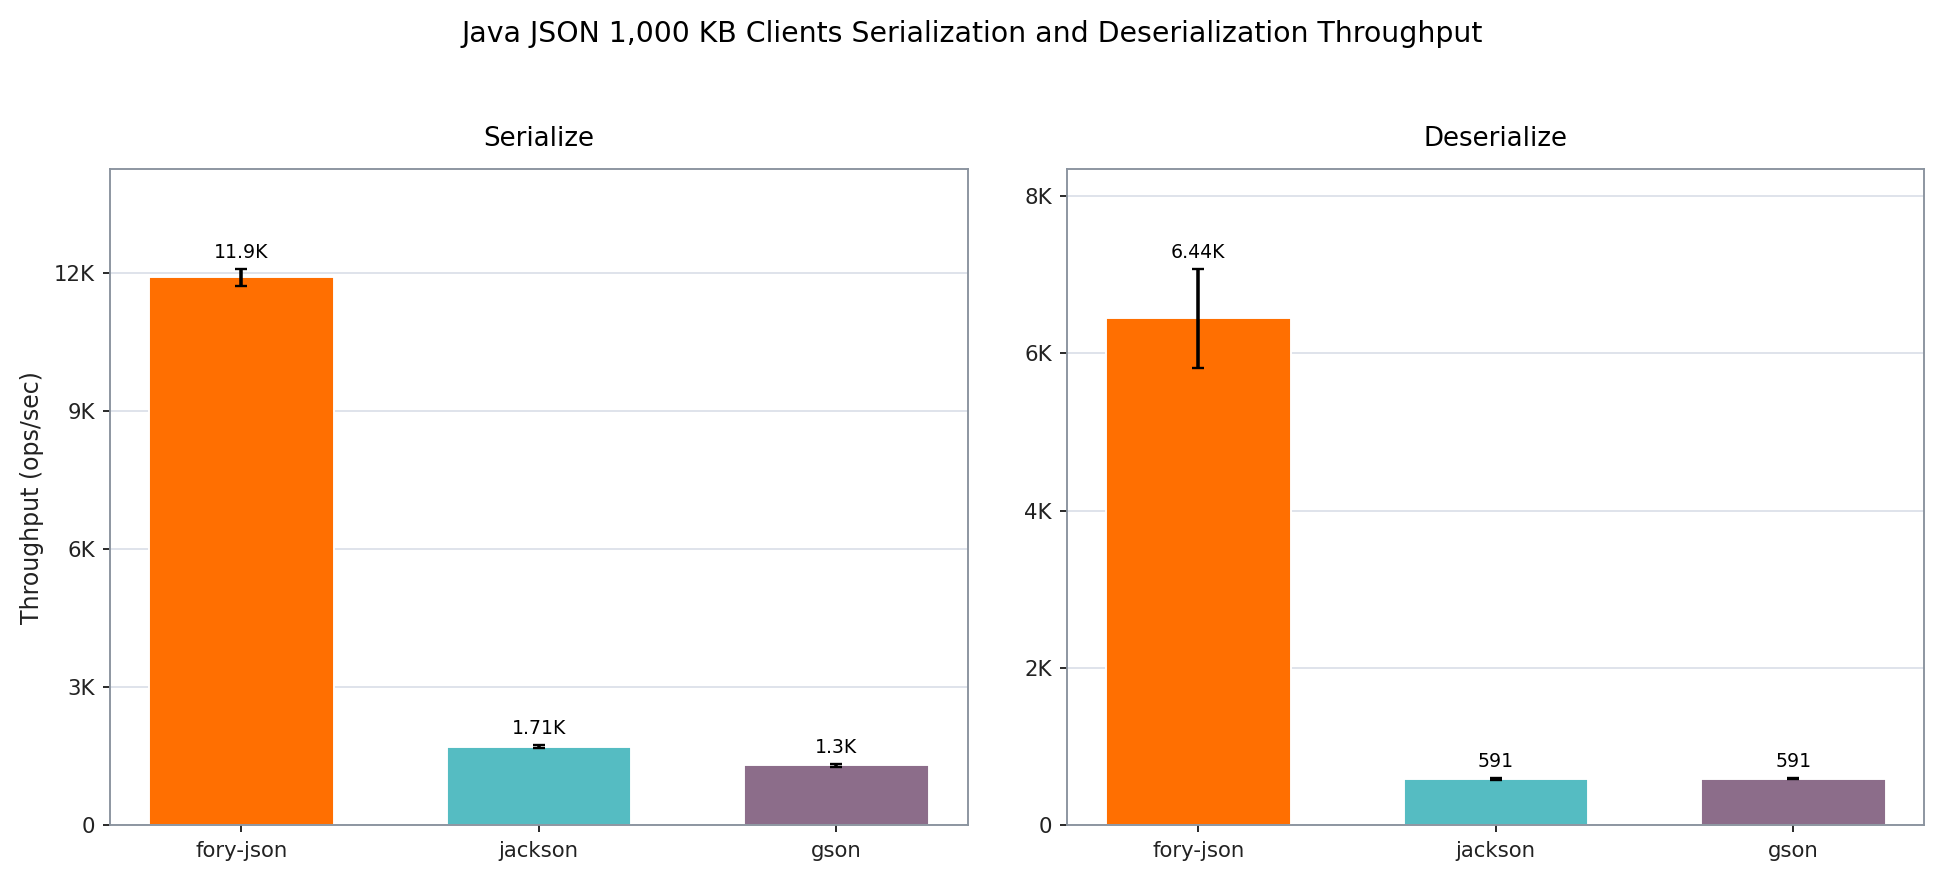
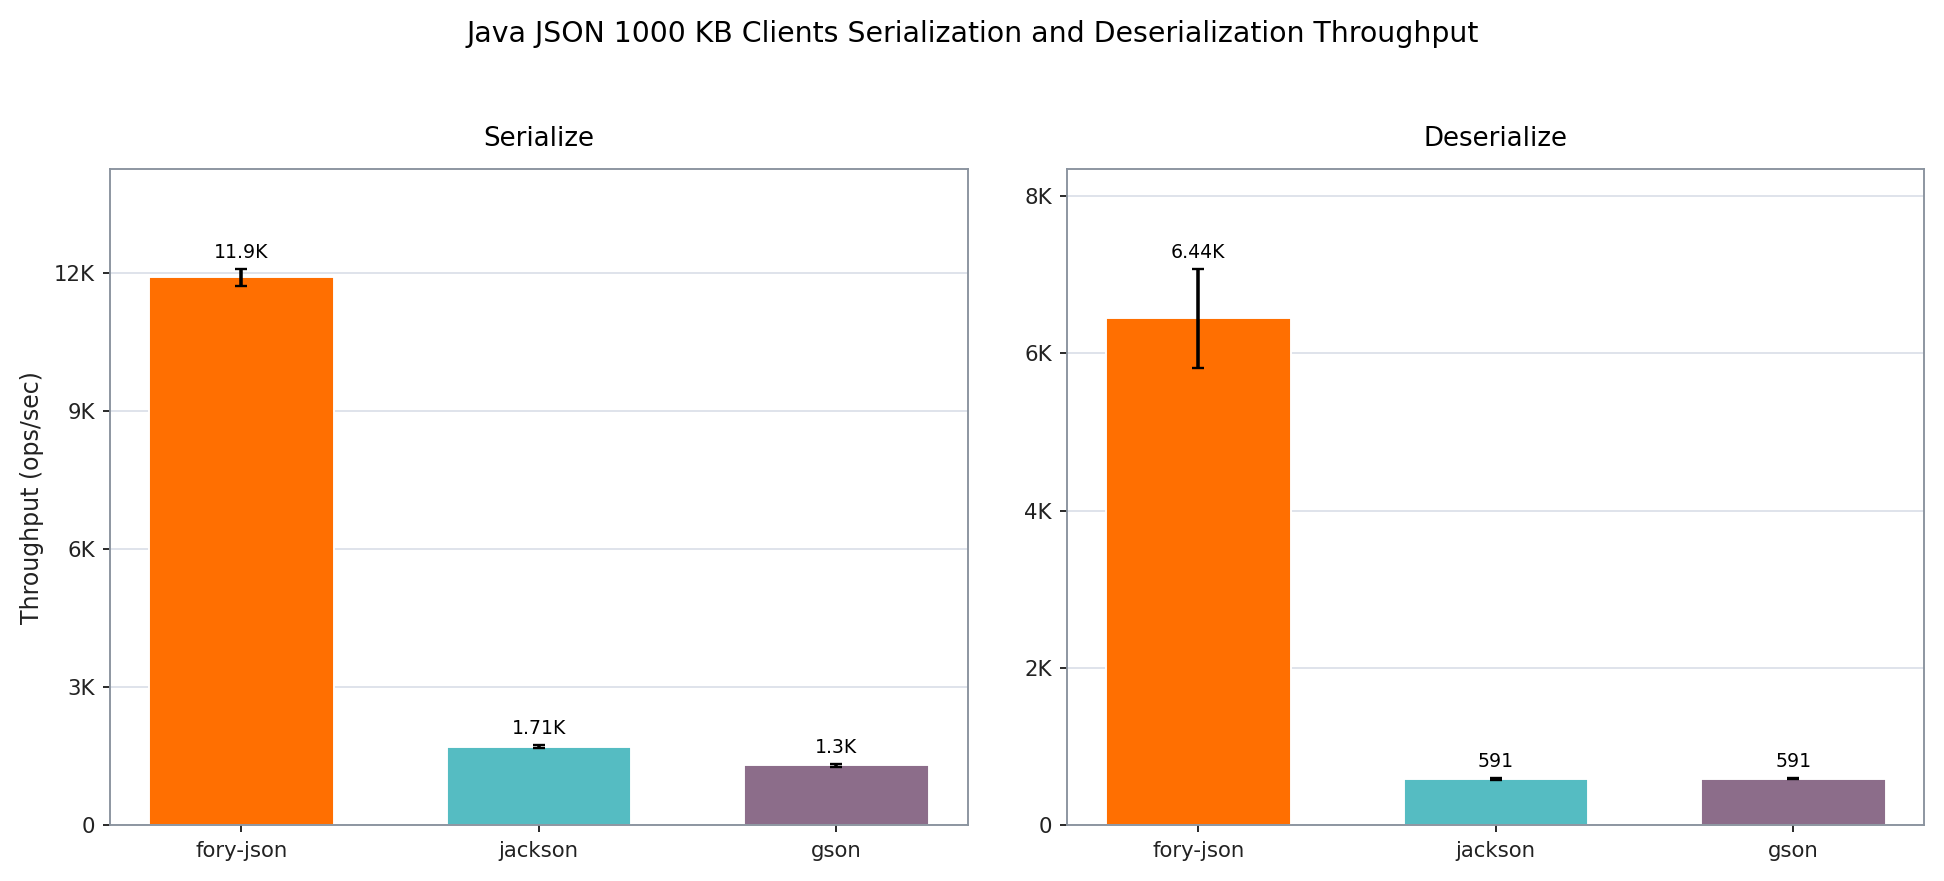
docs(blog): normalize benchmark size label

Changed region(s): [[0.216, 0.0, 0.7716, 0.0613]]

diff --git a/blog/2026-08-11-fory-json/index.md b/blog/2026-08-11-fory-json/index.md
@@ -5,11 +5,11 @@ authors: [chaokunyang]
 tags: [fory, java, json, serialization, performance]
 ---
 
-**TL;DR**: Apache Fory JSON is a high-performance Java framework for mapping application objects to standard JSON text and UTF-8 bytes. It supports ordinary Java models and runs on JDK 8+, Android, and GraalVM Native Image. In the published benchmark configurations below, Fory JSON is the fastest Java JSON serialization framework: up to **10.91× faster than Jackson and 10.89× faster than Gson** with 1,000 KB payloads, and up to **5.55× faster than Jackson and 10.00× faster than Gson** in the `jvm-serializers` MediaContent benchmark.
+**TL;DR**: Apache Fory JSON is a high-performance Java framework for mapping application objects to standard JSON text and UTF-8 bytes. It supports ordinary Java models and runs on JDK 8+, Android, and GraalVM Native Image. In the published benchmark configurations below, Fory JSON is the fastest Java JSON serialization framework: up to **10.91× faster than Jackson and 10.89× faster than Gson** with 1000 KB payloads, and up to **5.55× faster than Jackson and 10.00× faster than Gson** in the `jvm-serializers` MediaContent benchmark.
 
 - GitHub: [apache/fory](https://github.com/apache/fory)
 - Documentation: [Fory JSON](/docs/json/)
-- Wider 1,000 KB benchmark context: [java-json-benchmark PR #129](https://github.com/fabienrenaud/java-json-benchmark/pull/129)
+- Wider 1000 KB benchmark context: [java-json-benchmark PR #129](https://github.com/fabienrenaud/java-json-benchmark/pull/129)
 
 <img src="/img/fory-logo-light.png" width="50%"/>
 
@@ -89,19 +89,19 @@ The public API preserves those fast paths. A service that already needs network 
 
 ## The fastest Java JSON framework in these benchmarks
 
-Any useful performance claim needs a workload. We use two views here: the three-thread `java-json-benchmark` run with one 1,000 KB object per invocation, followed by the single-thread `jvm-serializers` MediaContent benchmark. Both report throughput in operations per second, so higher is better.
+Any useful performance claim needs a workload. We use two views here: the three-thread `java-json-benchmark` run with one 1000 KB object per invocation, followed by the single-thread `jvm-serializers` MediaContent benchmark. Both report throughput in operations per second, so higher is better.
 
 The tables intentionally compare Fory JSON only with Jackson and Gson. For the wider large-payload matrix, exact payload setup, and the benchmark integration, see [PR #129 in `java-json-benchmark`](https://github.com/fabienrenaud/java-json-benchmark/pull/129).
 
-### `java-json-benchmark`: 1,000 KB payloads
+### `java-json-benchmark`: 1000 KB payloads
 
-The 1,000 KB suite asks what happens when each invocation has substantial parsing, traversal, and output work.
+The 1000 KB suite asks what happens when each invocation has substantial parsing, traversal, and output work.
 
-The 1,000 KB run used Fory JSON 1.6.0, Jackson Databind 2.17.1, and Gson 2.11.0 with the databind API. JMH ran two forks and three threads. Each fork used five 3-second warmup iterations and five 3-second measurement iterations. The Users and Clients payloads each contained one 1,000 KB object per invocation.
+The 1000 KB run used Fory JSON 1.6.0, Jackson Databind 2.17.1, and Gson 2.11.0 with the databind API. JMH ran two forks and three threads. Each fork used five 3-second warmup iterations and five 3-second measurement iterations. The Users and Clients payloads each contained one 1000 KB object per invocation.
 
-![Fory JSON, Jackson, and Gson serialization and deserialization throughput for a 1,000 KB Users payload](./users-throughput.png)
+![Fory JSON, Jackson, and Gson serialization and deserialization throughput for a 1000 KB Users payload](./users-throughput.png)
 
-![Fory JSON, Jackson, and Gson serialization and deserialization throughput for a 1,000 KB Clients payload](./clients-throughput.png)
+![Fory JSON, Jackson, and Gson serialization and deserialization throughput for a 1000 KB Clients payload](./clients-throughput.png)
 
 | Payload | Operation       | Fory JSON ops/s       | Jackson ops/s         | Gson ops/s            | vs. Jackson | vs. Gson |
 | ------- | --------------- | --------------------: | --------------------: | --------------------: | ----------: | -------: |
@@ -116,7 +116,7 @@ The [PR #129 benchmark report](https://github.com/fabienrenaud/java-json-benchma
 
 ### `jvm-serializers` MediaContent benchmark
 
-The second view uses the [`jvm-serializers` MediaContent model](https://github.com/eishay/jvm-serializers/blob/master/tpc/src/data/media/MediaContent.java), which contains a media object and a list of images. This benchmark covers much smaller objects than the 1,000 KB suite and separates Java String APIs from UTF-8 byte-array APIs.
+The second view uses the [`jvm-serializers` MediaContent model](https://github.com/eishay/jvm-serializers/blob/master/tpc/src/data/media/MediaContent.java), which contains a media object and a list of images. This benchmark covers much smaller objects than the 1000 KB suite and separates Java String APIs from UTF-8 byte-array APIs.
 
 The `jvm-serializers` benchmark ran on an Apple M4 Pro with JDK 26.0.1. It used one JMH fork and one thread, with three 2-second warmup iterations followed by five 2-second measurement iterations.
 
@@ -245,7 +245,7 @@ The fastest route to a useful evaluation is to replace one representative Jackso
 - Read the [Fory JSON overview](/docs/json/).
 - Run the [Getting Started example](/docs/json/getting-started).
 - Inspect the [complete `jvm-serializers` MediaContent benchmark](/docs/benchmarks/json/java/).
-- Review the [1,000 KB benchmark and broader matrix in PR #129](https://github.com/fabienrenaud/java-json-benchmark/pull/129).
+- Review the [1000 KB benchmark and broader matrix in PR #129](https://github.com/fabienrenaud/java-json-benchmark/pull/129).
 - Join development at [apache/fory](https://github.com/apache/fory).
 
 Fory JSON keeps the format everyone already understands. The difference is how little time your Java service has to spend on it.
